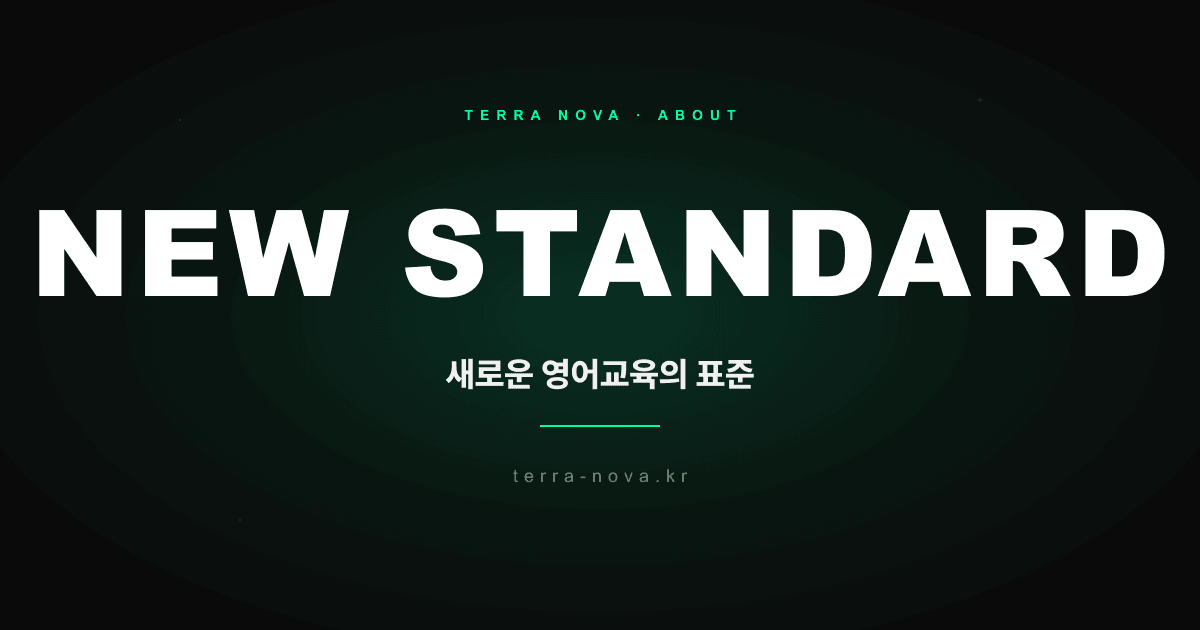
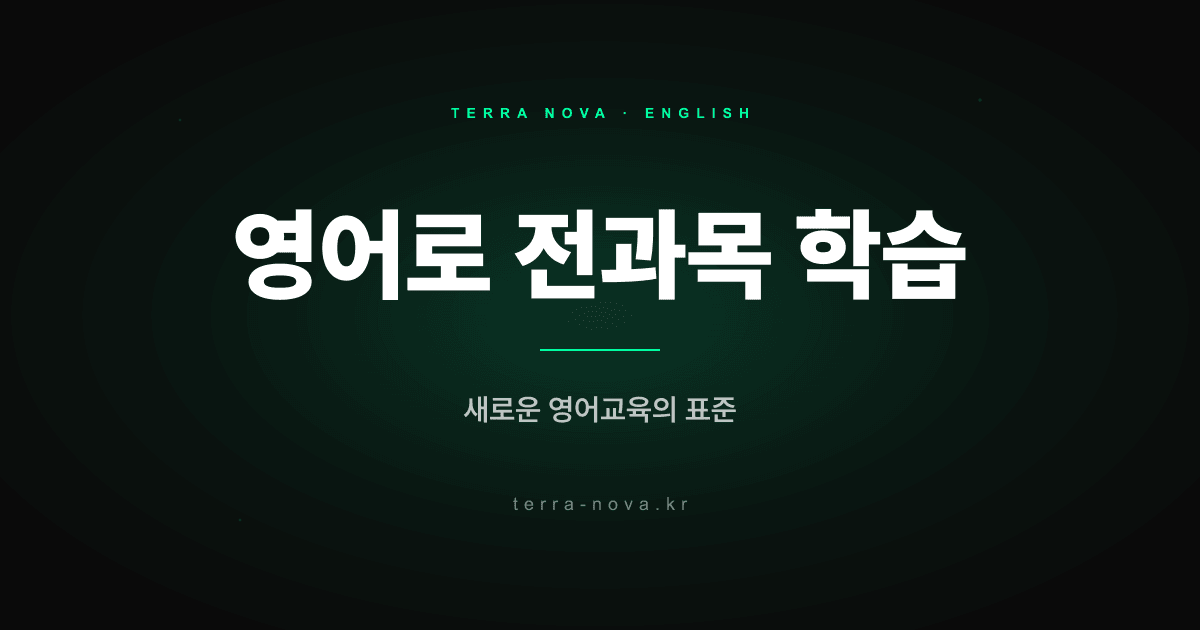
seo(og): 전 OG에 핵심 메시지 '영어로 전과목 학습' 통일
브랜드 일관성 강화:
- 모든 페이지 OG hero를 'TERRA NOVA · ENGLISH' 라벨 + 거대 '영어로 전과목 학습'
  + mint divider + 페이지별 가치/이벤트 sub + 도메인 구조로 통일
- 어디서 공유되든 사용자가 1초 안에 "이게 뭐 하는 서비스"를 이해

페이지별 sub:
- og-cover/og-landing: 매달 새 신간 12권 · 위약금 0원 / 초5~N수생 8단계 매칭
- og-subscription   : 월 11,900원부터 · 1클릭 해지   (mint)
- og-event          : 신규 가입 첫 달 30% 할인        (mint pill badge)
- og-faq            : 자주 묻는 질문 한곳에서
- og-intro          : 새로운 영어교육의 표준
- og-market         : 단어장 · 기출 · 워크북 마켓
- og-level-test     : 3분 무료 진단 · 내 레벨 찾기   (mint)
- og-order          : 월 11,900원으로 시작하기        (mint)
- og-sample         : 레벨별 무료 샘플 미리보기       (mint)

10장 SVG 재작성 + PNG 재변환. service-worker CACHE_VERSION bump.

diff --git a/service-worker.js b/service-worker.js
@@ -7,7 +7,7 @@
 // CACHE_VERSION? deploy.bat??留?諛고룷留덈떎 timestamp濡??먮룞 媛깆떊 (yyyyMMdd-HHmm).
 // ??踰꾩쟾??install?섎㈃ activate ?④퀎?먯꽌 ??罹먯떆 ?쇨큵 ??젣.
 
-const CACHE_VERSION = 'tn-v2-20260511-0345';
+const CACHE_VERSION = 'tn-v2-20260511-0415';
 const CORE_ASSETS = [
   './',
   './index.html',
